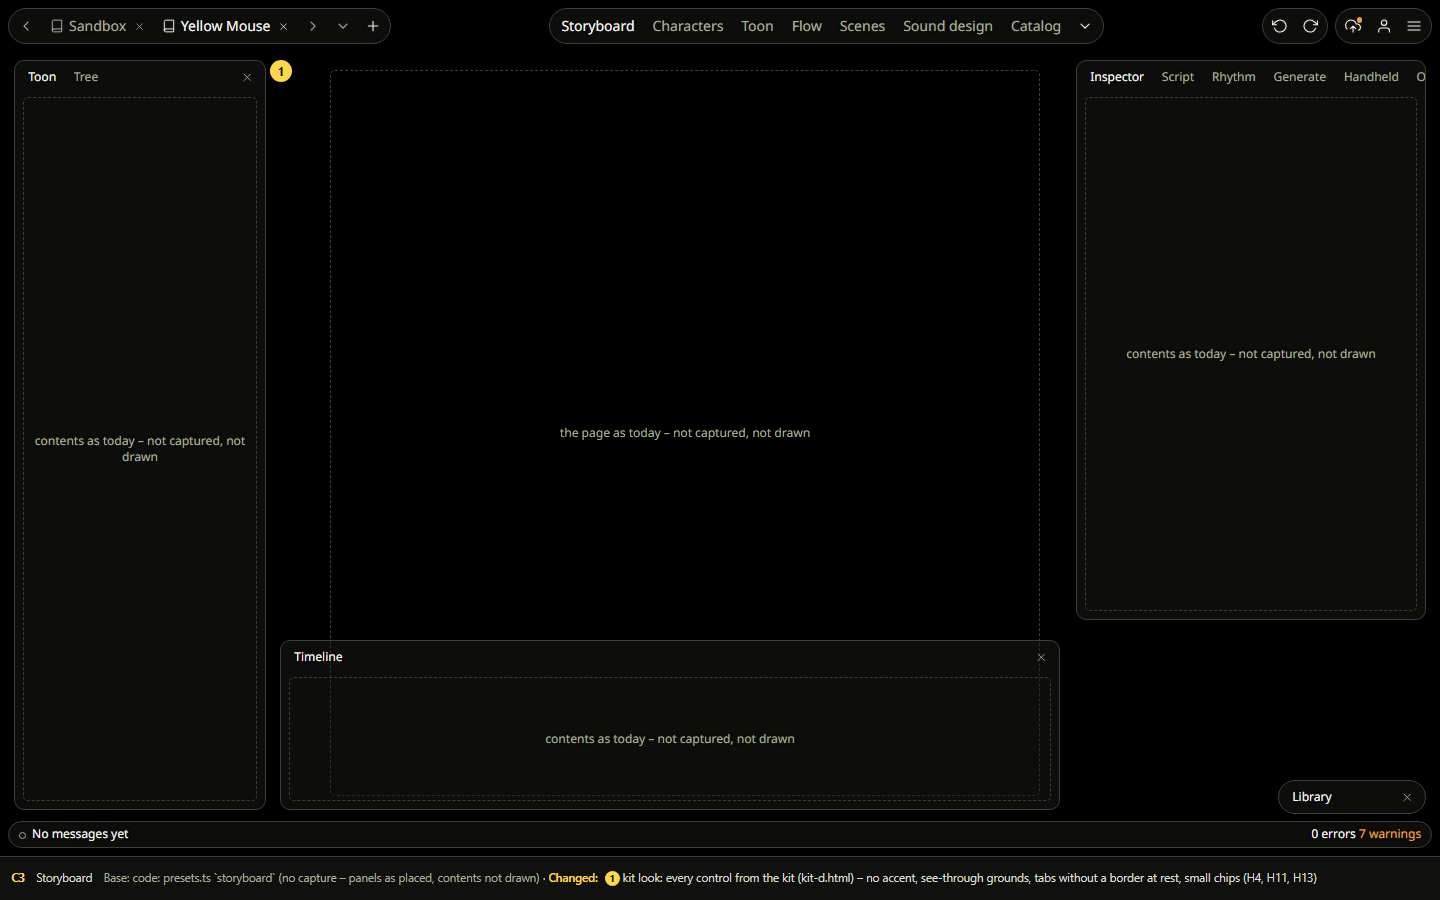
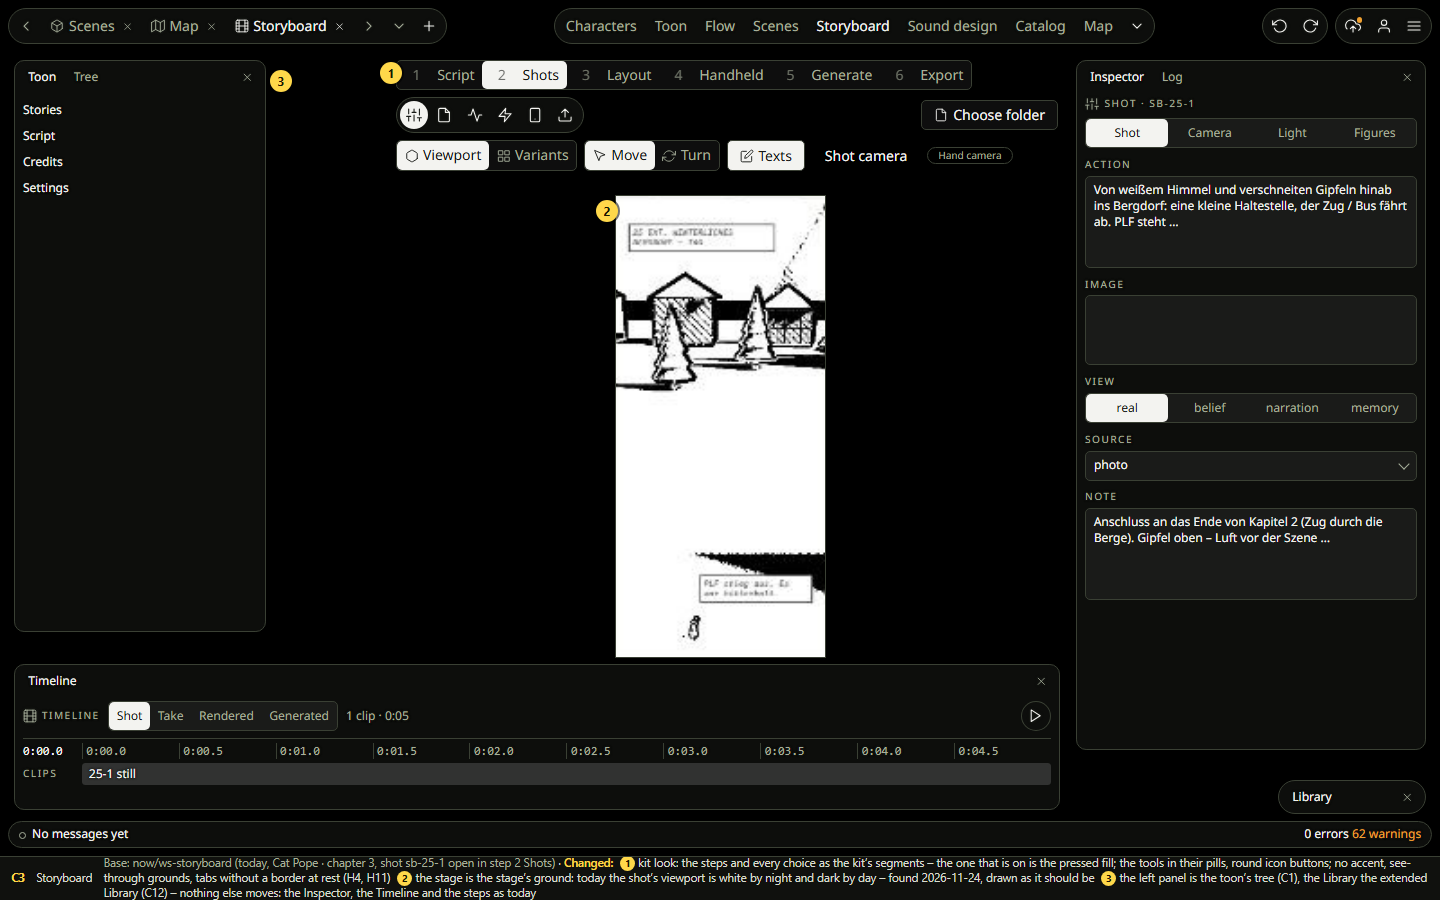
Lap 2 draft: the Storyboard workspace (C3) drawn from today's page on the kit; today's page captured; the viewport's ground found inverted. Refs #626

diff --git a/agents/research/redesign/lap2/draft-screens.js b/agents/research/redesign/lap2/draft-screens.js
@@ -226,8 +226,35 @@ add('C', 'C1', 'Toon: one toon – seasons, chapters, the cast', 'now/ws-toon (2
   });
 add('C', 'C2', 'Chapter', presetBase('chapter'), [KIT],
   () => `${wsFromPreset('Chapter', TOON_ITEMS, [LEFT([['Toon',1],['Tree',0]]), { x: 1076, y: 60, w: 350, h: 420, tabs: [['Inspector',1],['Log',0],['Flow',0]] }, { x: 1092, y: 735, w: 170, tabs: [['Preview',1]], folded: true }, LIBF], pageNotShot())}${mk(1, 270, 60)}`);
-add('C', 'C3', 'Storyboard', presetBase('storyboard'), [KIT],
-  () => `${wsFromPreset('Storyboard', TOON_ITEMS, [LEFT([['Toon',1],['Tree',0]]), { x: 1076, y: 60, w: 350, h: 560, tabs: [['Inspector',1],['Script',0],['Rhythm',0],['Generate',0],['Handheld',0],['Output',0],['Log',0]] }, { x: 280, y: 640, w: 780, h: 170, tabs: [['Timeline',1]] }, LIBF], pageNotShot())}${mk(1, 270, 60)}`);
+/* C3 – the Storyboard workspace, drawn from today's page (now/ws-storyboard, creator.scutoons.com/catpope/chapter/3/storyboard, 2026-11-24): the steps, the tools, the shot's page, the Inspector, the Timeline – on the kit */
+const SB_PAGE = (x, y, w, h) => `<span class="abs" style="left:${x}px;top:${y}px;width:${w}px;height:${h}px;overflow:hidden;outline:1px solid var(--tool-line)" title="the shot's page as today (sb-25-1)">${capPic(`now/ws-storyboard-${WS_TH}.jpg`, 800, 476, 342, 100, 116, 256)}</span>`;
+const SB_SEG = (names, on, o = {}) => `<span class="seg" ${o.style ? `style="${o.style}"` : ''}>${names.map((n, k) => `<span class="${k === on ? 'on' : ''}" ${o.grow ? 'style="flex:1;justify-content:center"' : ''}>${n}</span>`).join('')}</span>`;
+const SB_LBL = (t, top = '.7rem') => `<div class="label" style="margin:${top} 0 .3rem">${t}</div>`;
+const SB_TEXT = (t, h) => `<div class="fld" style="width:auto;height:${h}px;align-items:flex-start;padding:.35rem .55rem;white-space:normal;line-height:1.35;overflow:hidden">${t}</div>`;
+add('C', 'C3', 'Storyboard', 'now/ws-storyboard (today, Cat Pope · chapter 3, shot sb-25-1 open in step 2 Shots)',
+  ['kit look: the steps and every choice as the kit’s segments – the one that is on is the pressed fill; the tools in their pills, round icon buttons; no accent, see-through grounds, tabs without a border at rest (H4, H11)',
+   'the stage is the stage’s ground: today the shot’s viewport is white by night and dark by day – found 2026-11-24, drawn as it should be',
+   'the left panel is the toon’s tree (C1), the Library the extended Library (C12) – nothing else moves: the Inspector, the Timeline and the steps as today'],
+  () => `${cbar({ chevron: true, wsOn: 'Storyboard', ws: ['Characters', 'Toon', 'Flow', 'Scenes', 'Storyboard', 'Sound design', 'Catalog', 'Map'], items: [['box', 'Scenes'], ['map', 'Map'], ['film', 'Storyboard']] })}
+  ${fp(14, 60, 252, 572, [['Toon', 1], ['Tree', 0]], ['Stories', 'Script', 'Credits', 'Settings'].map(n => `<div class="lrow" style="min-height:1.85rem">${n}</div>`).join(''))}
+  <div class="abs" style="left:396px;top:60px;display:flex;flex-direction:column;gap:.5rem;width:662px">
+    <div>${SB_SEG(['1 Script', '2 Shots', '3 Layout', '4 Handheld', '5 Generate', '6 Export'].map(n => `<span style="color:inherit;opacity:.6;margin-right:.35rem">${n[0]}</span>${n.slice(2)}`), 1)}</div>
+    <div style="display:flex;align-items:center"><span class="kp">${['sliders', 'file', 'activity', 'zap', 'phone', 'upload'].map((n, k) => `<span class="kib ${k === 0 ? 'pressed' : ''}">${ic(n)}</span>`).join('')}</span><span style="flex:1"></span><span class="kb plain">${ic('file')}Choose folder</span></div>
+    <div style="display:flex;align-items:center;gap:.5rem">${SB_SEG([ic('cube') + 'Viewport', ic('grid') + 'Variants'], 0)}${SB_SEG([ic('pointer') + 'Move', ic('refresh') + 'Turn'], 0)}<span class="kb plain pressed" style="background:var(--tool-pressed);color:var(--tool-pressed-text)" title="Texts shown">${ic('edit')}Texts</span><span class="kb quiet">Shot camera</span><span class="kc" title="This shot is filmed by hand">Hand camera</span></div>
+  </div>
+  ${SB_PAGE(616, 196, 209, 461)}
+  ${fp(1076, 60, 350, 690, [['Inspector', 1], ['Log', 0]], `<div class="label" style="display:flex;align-items:center;gap:.4rem;margin-bottom:.5rem">${ic('sliders')}Shot · sb-25-1</div>
+    ${SB_SEG(['Shot', 'Camera', 'Light', 'Figures'], 0, { style: 'display:flex', grow: 1 })}
+    ${SB_LBL('Action')}${SB_TEXT('Von weißem Himmel und verschneiten Gipfeln hinab ins Bergdorf: eine kleine Haltestelle, der Zug / Bus fährt ab. PLF steht …', 92)}
+    ${SB_LBL('Image')}${SB_TEXT('', 70)}
+    ${SB_LBL('View')}${SB_SEG(['real', 'belief', 'narration', 'memory'], 0, { style: 'display:flex', grow: 1 })}
+    ${SB_LBL('Source')}<div class="fld sel" style="width:auto">photo</div>
+    ${SB_LBL('Note')}${SB_TEXT('Anschluss an das Ende von Kapitel 2 (Zug durch die Berge). Gipfel oben – Luft vor der Szene …', 92)}`)}
+  ${fp(14, 664, 1046, 146, [['Timeline', 1]], `<div style="display:flex;align-items:center;gap:.6rem;margin-bottom:.5rem"><span class="label" style="display:inline-flex;align-items:center;gap:.35rem">${ic('film')}Timeline</span>${SB_SEG(['Shot', 'Take', 'Rendered', 'Generated'], 0)}<span class="cap">1 clip · 0:05</span><span style="flex:1"></span><span class="kib" style="box-shadow:inset 0 0 0 1px var(--tool-line)" title="Play">${ic('play')}</span></div>
+    <div style="display:flex;border-top:1px solid var(--tool-line);padding-top:.25rem" class="mono cap"><span style="width:4.2rem;color:var(--tool-text)">0:00.0</span>${['0:00.0', '0:00.5', '0:01.0', '0:01.5', '0:02.0', '0:02.5', '0:03.0', '0:03.5', '0:04.0', '0:04.5'].map(t => `<span style="flex:1;border-left:1px solid var(--tool-line);padding-left:.25rem">${t}</span>`).join('')}</div>
+    <div style="display:flex;align-items:center;margin-top:.3rem"><span class="label" style="width:4.2rem">Clips</span><span style="flex:1;height:1.6rem;border-radius:.25rem;background:var(--tool-selected);display:flex;align-items:center;padding:0 .5rem;font-size:var(--editor-small)">25-1 still</span></div>`)}
+  ${folded(1278, 780, 'Library')}${cstatus('No messages yet', '0 errors <span class="warn">62 warnings</span>')}
+  ${mk(1, 380, 62)}${mk(2, 596, 200)}${mk(3, 270, 70)}`);
 
 add('C', 'C4', 'Characters: Sheet · 3D · Kanon · Expressions · Rig · Voice · Cast · Generations', 'now/creator-1, now/ws-characters (Rig in front)',
   ['the Rig tab without the Bones and Clips lists (the deck\'s asset view has them, not twice) – the rest as today: the look\'s 3D model, the model\'s line, Idle, Body, A-pose',

diff --git a/agents/research/redesign/lap2/draft.html b/agents/research/redesign/lap2/draft.html
@@ -103,6 +103,7 @@ svg.i{width:1rem;height:1rem;stroke:currentColor;fill:none;stroke-width:1.6;stro
 .seg{display:inline-flex;border:1px solid var(--tool-line);border-radius:var(--editor-radius);background:var(--tool-control);text-shadow:none}
 .seg span{display:inline-flex;align-items:center;height:calc(var(--control-height) - 2px);padding:0 .55rem;border-radius:var(--editor-radius);color:var(--tool-muted)}
 .seg span.on{background:var(--tool-pressed);color:var(--tool-pressed-text)}
+.seg span{gap:.3rem}
 .fold{display:flex;align-items:center;gap:.4rem;height:1.8rem}
 .fold::before{content:'';width:.4rem;height:.4rem;border-right:1.2px solid var(--tool-muted);border-bottom:1.2px solid var(--tool-muted);transform:rotate(45deg) translateY(-2px);margin:0 .2rem}
 .fold.shut::before{transform:rotate(-45deg)}

diff --git a/agents/research/redesign/lap2/NOTES.md b/agents/research/redesign/lap2/NOTES.md
@@ -125,3 +125,4 @@ Later, after these: the scene page + open in the deck; Catalog + Library; the on
 - **Decided: the Library's type filter is one quiet select** (owner: *"Yes, a select."*) – LIBRARY.md, decisions/creator.md; drawn on C12 (closed) and F1 (open, two groups) and in every Library panel of the draft.
 - **Decided: the extended Library's five consequences** (owner on the draft's question cards: *"Yes, as drawn."*) – one list, the trees' top levels gone, one picker, the Cast tab as "cast in", "By cast" with characters. decisions/creator.md, LIBRARY.md, DECISIONS.md §5, PLAN.md P11; the five cards are off the draft. "Trees that travel" stays unconfirmed.
 - **Decided: trees do not travel between workspaces** (owner: *"Yes, they go."*) – the Library does the referencing. decisions/creator.md, LIBRARY.md (nothing open in it now), TREES.md (a note at its head), DECISIONS.md §5.
+- **The Storyboard workspace was missing** (owner: *"You are missing the storyboard workspace. Draft it and then we can switch to Opus and start the night run."*) – the draft's C3 was an empty frame with the panels' names. Captured today's page from production (now/ws-storyboard-night.jpg, -day.jpg: creator.scutoons.com/catpope/chapter/3/storyboard, shot sb-25-1, step 2 Shots) and drew C3 from it on the kit: the six steps, the tool rows, the shot's page, the Inspector (Shot · Camera · Light · Figures; Action, Image, View, Source, Note), the Timeline, the toon's tree, the Library. Found on the capture: the viewport's ground is white by night and dark by day – in PLAN.md P8. Nothing else of the Storyboard is redesigned; its other steps (Script, Layout, Handheld, Generate, Export) and the Variants view are not drawn.

diff --git a/agents/research/redesign/lap2/SCREENS.md b/agents/research/redesign/lap2/SCREENS.md
@@ -38,7 +38,7 @@ Every screen is 1440×900, night first, drawn from today's screen (`now/`, the w
 |---|---|---|---|
 | C1 | Toon | the tree of one toon: the season, its chapters and a Cast branch; the season's cast listed and edited here (order, role per language, personas, Add from the Library, ✕); a character opened from it goes to Characters | current (from now/ws-toon, drawn with Cat Pope; card: the Toon tree's top level) |
 | C2 | Chapter | kit look | current (panels from presets.ts; the page not captured) |
-| C3 | Storyboard | kit look | current (panels from presets.ts; the page not captured) |
+| C3 | Storyboard | drawn from today's page (Cat Pope · chapter 3): the six steps and every choice as segments, the tools in their pills, the shot's page on the stage, the Inspector, the Timeline; the toon's tree on the left, the extended Library | current |
 | C4 | Characters | the Rig tab without the Bones and Clips lists – the rest as today (the look's 3D model, the model's line, Idle, Body, A-pose) – and "Open in the deck"; no Import images; 2D-first or 3D-first is open | current |
 | C4b | Characters: the Cast tab | "cast in": the seasons the character is cast in, each a link to the toon's season – not an editor | current (card: the Cast tab) |
 | C5 | Scenes: the scene page | no Tree of all scenes (the Library opens scenes); the scene's preview covers the whole back; "Edit in deck" on it; the facts and versions in a panel | current |

diff --git a/agents/research/redesign/lap2/DECISIONS.md b/agents/research/redesign/lap2/DECISIONS.md
@@ -101,6 +101,7 @@ One line per decision. **Open** lists what still needs the owner's word; **Thoug
 
 ## 7 · Found broken (fixed with the lap)
 - The Map's stage is 0 px wide.
+- The Storyboard's viewport is white by night and dark by day.
 - The workspace row hides Map; its "more" menu only shows after a measurement.
 - The deck's "fires on" list has no ground; the stage shows through.
 - 59 local style rules in 27 files; raw selects; solid blue "Published" badges.

diff --git a/agents/research/redesign/lap2/PLAN.md b/agents/research/redesign/lap2/PLAN.md
@@ -110,6 +110,7 @@ The Library lists things and files; a thing is stepped into; an assignment shows
 
 ### P8 · Bugs and wording
 - The Map's stage at 0 px.
+- The Storyboard's viewport ground: white by night and dark by day today (found 2026-11-24 on Cat Pope · chapter 3).
 - The 59 local style rules, the raw selects, the solid blue "Published" badges.
 - Wording: messages ending in "…", hard-coded texts, the translation dogma on the pages that miss it.
 
